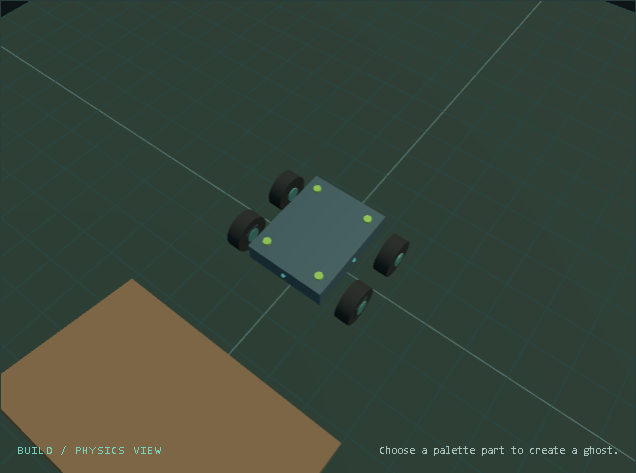
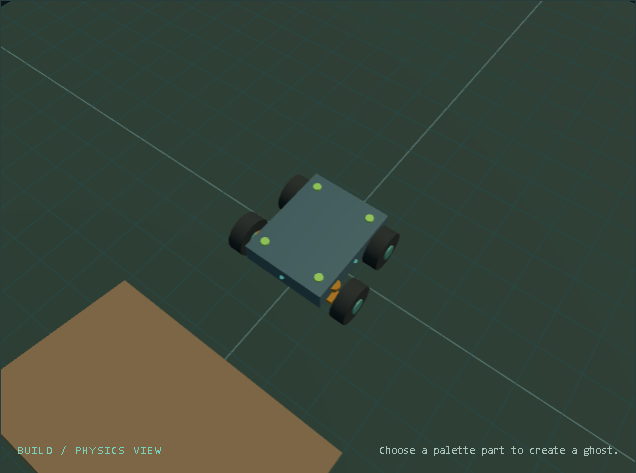
handoff docs + new steering model

diff --git a/src/parts/steering-hinge/visual.generated.ts b/src/parts/steering-hinge/visual.generated.ts
@@ -1,28 +1,41 @@
 // Generated-style procedural output from art-source/parts/steering-hinge/brief.md.
 // The pinned img2threejs checkout is recorded in manifest.json; the current source has no external image reference.
 import * as THREE from "three";
-import { material, mesh } from "../visual-utils";
+import { cylinderBetween, material, mesh } from "../visual-utils";
 
 export interface GeneratedVisualOptions { readonly variant?: "A" | "B"; }
 
 export function createSteeringHingeModel(options: GeneratedVisualOptions = {}): THREE.Group {
   const root = new THREE.Group();
   root.name = "steering-hinge-visual";
-  const dark = material(0x35464e, 0.55, 0.35);
-  const accent = material(options.variant === "B" ? 0x63c9c0 : 0xe3ae5a, 0.36, 0.55);
+  const dark = material(0x26373f, 0.58, 0.4);
+  const accent = material(options.variant === "B" ? 0x63c9c0 : 0xf0a53a, 0.32, 0.62);
+  const steel = material(0xb7c5c8, 0.28, 0.76);
   if (options.variant === "B") {
-    for (const x of [-0.16, 0.16]) {
-      const cheek = mesh(new THREE.BoxGeometry(0.12, 0.42, 0.42), dark, "fork-cheek");
-      cheek.position.x = x;
+    for (const z of [-0.1, 0.1]) {
+      const cheek = mesh(new THREE.BoxGeometry(0.4, 0.1, 0.08), dark, "fork-cheek");
+      cheek.position.set(0, 0, z);
       root.add(cheek);
     }
   } else {
-    root.add(mesh(new THREE.BoxGeometry(0.4, 0.42, 0.4), dark, "hinge-body"));
+    const arm = mesh(new THREE.BoxGeometry(0.4, 0.16, 0.16), dark, "knuckle-arm");
+    root.add(arm);
   }
-  const pin = mesh(new THREE.CylinderGeometry(0.1, 0.1, 0.5, 12), accent, "pivot-pin");
+  const pin = mesh(new THREE.CylinderGeometry(0.09, 0.09, 0.54, 16), accent, "steering-kingpin");
+  pin.position.x = -0.2;
   root.add(pin);
-  const cap = mesh(new THREE.BoxGeometry(0.26, 0.08, 0.26), accent, "top-cap");
-  cap.position.y = 0.24;
-  root.add(cap);
+  for (const y of [-0.29, 0.29]) {
+    const cap = mesh(new THREE.CylinderGeometry(0.13, 0.13, 0.06, 12), accent, "kingpin-cap");
+    cap.position.set(-0.2, y, 0);
+    root.add(cap);
+  }
+  const axle = mesh(new THREE.CylinderGeometry(0.075, 0.075, 0.28, 12), steel, "axle-stub");
+  axle.rotation.z = Math.PI / 2;
+  axle.position.x = 0.27;
+  root.add(axle);
+  const steeringTab = mesh(new THREE.BoxGeometry(0.13, 0.1, 0.3), accent, "steering-tab");
+  steeringTab.position.set(-0.12, 0.06, 0.15);
+  root.add(steeringTab);
+  root.add(cylinderBetween(new THREE.Vector3(-0.12, 0.06, 0.25), new THREE.Vector3(0.12, 0.06, 0.08), 0.035, accent, "knuckle-brace"));
   return root;
 }

diff --git a/src/simulation/hardening-regression.test.ts b/src/simulation/hardening-regression.test.ts
@@ -45,6 +45,25 @@ describe("runtime hardening", () => {
     expect(allocations).toBe(0);
   });
 
+  it("keeps the compact knuckle layout clear of the chassis through full steering travel", () => {
+    const catalog = new StaticPartCatalog();
+    const telemetry: RuntimeTelemetryEvent[] = [];
+    const result = new SimulationCompiler({ catalog, events: new NamespacedEventBus(), createPhysicsWorld: () => new RapierPhysicsWorld({ telemetry: (event) => telemetry.push(event) }) }).compile(createRuntimeSampleFixture(catalog, "four-wheel-scout"));
+    expect(result.ok).toBe(true);
+    if (!result.ok) return;
+    const body = (id: string) => result.value.specification.bodies.find((candidate) => candidate.id === id)?.transform.position;
+    expect(Math.abs((body("wheel-rear-right")?.[0] ?? 0) - 1)).toBeCloseTo(0.2, 8);
+    expect(Math.abs((body("wheel-front-right")?.[0] ?? 0) - 1)).toBeCloseTo(0.4, 8);
+    expect(tupleDistance(body("hinge-front-right") ?? [0, 0, 0], body("wheel-front-right") ?? [0, 0, 0])).toBeCloseTo(0.2, 8);
+    for (const steering of [-1, 1]) {
+      result.value.world.setControls({ throttle: 0, steering });
+      for (let step = 0; step < 240; step += 1) result.value.world.step(1 / 60);
+    }
+    const unintended = telemetry.filter((event) => event.type === "physics.collision.started" && /chassis/.test(JSON.stringify(event.payload)) && /wheel-front/.test(JSON.stringify(event.payload)));
+    expect(unintended).toEqual([]);
+    result.value.world.dispose();
+  });
+
   it("keeps every sample finite with bounded joint-anchor drift under long mixed controls", () => {
     const catalog = new StaticPartCatalog();
     for (const sample of RUNTIME_SAMPLES) {

diff --git a/docs/collider-and-model-handoff.md b/docs/collider-and-model-handoff.md
@@ -1,0 +1,180 @@
+# Collider and model handoff guide
+
+Tài liệu này dành cho dev thay model, chỉnh kích thước part hoặc tiếp tục phát triển hệ thống assembly. Mục tiêu là giữ visual, socket, collider và physics joint cùng một hệ tọa độ, tránh tình trạng model nhìn đúng nhưng collider lệch, bánh xuyên thân hoặc joint bị kéo căng.
+
+## 1. Nguồn dữ liệu authoritative
+
+Mỗi part có bốn lớp riêng:
+
+| Lớp | File | Trách nhiệm |
+|---|---|---|
+| Visual brief | `art-source/parts/<part>/brief.md` | Hình dáng, tỷ lệ và provenance |
+| Visual factory | `src/parts/<part>/visual.generated.ts` | Tạo Three.js mesh trong local part frame |
+| Visual adapter | `src/parts/<part>/visual.adapter.ts` | Normalize model và quản lý dispose |
+| Gameplay contract | `src/parts/<part>/manifest.json` | Socket, collider, mass, actuator, axis và limit |
+
+Mesh không phải nguồn xác định physics. Runtime không tự sinh collider từ mesh. Collider đơn giản trong manifest là contract gameplay ổn định và phải được review riêng khi thay đổi.
+
+Một thay đổi chỉ về hình ảnh không được sửa:
+
+- part ID hoặc socket ID;
+- local part-frame origin;
+- socket position/rotation;
+- collider position/rotation/kích thước;
+- actuator axis, steering limit hoặc motor parameters;
+- blueprint transform hay joint logic.
+
+Nếu model mới không khớp contract hiện tại, normalize visual trong adapter hoặc sửa file nguồn của model. Không di chuyển socket để bù cho origin export sai.
+
+## 2. Quy ước tọa độ
+
+- Một unit bằng một mét.
+- Trục Y hướng lên.
+- Hướng tiến của xe là +Z.
+- Wheel quay quanh local +X.
+- Steering quay quanh local +Y.
+- Transform physics được áp lên part root đúng một lần.
+- Scale và axis correction của asset chỉ được áp vào visual child.
+
+Trước khi export model, đặt guide hoặc locator tại mọi socket. Sau import, tâm guide phải trùng socket marker trong part preview ở cả ba góc nhìn front, side và top.
+
+## 3. Contract của steering knuckle
+
+`core.steering-hinge` dùng origin ở giữa kingpin và wheel hub:
+
+| Thành phần | Local value |
+|---|---:|
+| Chassis mount / kingpin | `[-0.20, 0, 0]` |
+| Wheel axle / hub | `[0.20, 0, 0]` |
+| Steering axis | `[0, 1, 0]` |
+| Wheel-spin axis | `[1, 0, 0]` |
+| Steering limit | `[-0.40, 0.40] rad` |
+| Kingpin-to-hub length | `0.40 m` |
+
+Visual phải có một cấu trúc nhìn thấy được nối từ `mount` tới `axle`. Kingpin nằm đúng tại socket `mount`; axle stub xuyên qua socket `axle`. Không đặt toàn bộ visual quanh origin như một khối vuông vì bánh sẽ che cơ cấu lái.
+
+Collider hiện gồm:
+
+- một cuboid mỏng bao tay đòn;
+- một cylinder đứng bao kingpin;
+- không có collider riêng cho steering tab và chi tiết trang trí mảnh.
+
+Các collider của hinge và part nối trực tiếp được phép chồng nhẹ tại joint. Wheel và chassis không nối trực tiếp nên không được xuyên nhau; tuyệt đối không tắt contact wheel/chassis để che lỗi hình học.
+
+## 4. Steering sweep và clearance
+
+Kiểm tra pose trung tính là chưa đủ. Khi bánh steer, radius của lốp tạo một swept volume rộng hơn bề dày bánh.
+
+Với:
+
+- `h`: nửa bề dày bánh;
+- `r`: bán kính bánh;
+- `θ`: góc lái lớn nhất;
+- `c`: vị trí mép chassis;
+- `L`: khoảng cách kingpin tới tâm hub;
+
+mép trong bảo thủ của bánh có thể ước lượng bằng:
+
+```text
+innerEdge ≈ c + L·cos(θ) - h·cos(θ) - r·sin(θ)
+```
+
+`innerEdge` phải nằm ngoài mép chassis cộng thêm safety clearance. Sau phép tính vẫn phải chạy collision regression thật; công thức chỉ dùng để loại sớm thiết kế không khả thi.
+
+Khi thay bánh rộng hơn, tăng radius hoặc tăng steering limit, cần review lại đồng thời:
+
+1. vị trí chassis mount;
+2. chiều dài knuckle;
+3. collider chassis;
+4. wheel collider;
+5. steering limit;
+6. khoảng cách ở cả hai chiều lái.
+
+Không kéo bánh ra xa tùy ý. Nếu cần khoảng cách lớn để tránh thân, visual phải thể hiện phần cơ khí lấp khoảng cách đó như knuckle, hub carrier hoặc axle stub.
+
+## 5. Nguyên tắc tạo collider
+
+- Ưu tiên cuboid, cylinder và compound collider nhỏ, dễ đọc.
+- Collider nên bám silhouette cơ khí chính, không bám bolt, bevel hoặc chi tiết trang trí.
+- Tránh một collider lớn bao cả khoảng rỗng của fork hoặc wheel arch.
+- Không dùng collider cực mỏng nếu part có thể di chuyển nhanh qua vật khác.
+- Không để visual nhô quá xa khỏi collider nếu phần đó được kỳ vọng phải va chạm.
+- Không tạo nhiều collider chồng nhau nếu chúng chỉ mô tả cùng một khối lượng.
+- Mọi kích thước, rotation và position phải hữu hạn, theo mét và ở local part frame.
+- Sau khi sửa collider phải kiểm tra lại mass distribution, contact stability và joint drift.
+
+Overlap preflight dùng world-space bounding boxes và có tính bảo thủ với collider xoay. Nếu một model hợp lệ bị reject, trước tiên kiểm tra origin, socket và collider envelope. Không tăng tolerance hoặc miễn cả loại part chỉ để test qua.
+
+## 6. Quy trình thay model an toàn
+
+1. Ghi lại part ID, visual revision và gameplay revision hiện tại.
+2. Mở `manifest.json`, đánh dấu origin, sockets, colliders và actuator axes trong DCC/tool tạo model.
+3. Thay mesh nhưng giữ nguyên local part frame.
+4. Normalize scale/up-axis trong visual adapter nếu cần.
+5. Kiểm tra variant mới trong isolated part preview với socket/collider overlays.
+6. Kiểm tra model trong Build mode trước khi chạy physics.
+7. Quan sát neutral pose, full-left và full-right steering.
+8. Chạy drive/reverse/steer, Reset và đổi variant A/B.
+9. Chạy toàn bộ command QA bên dưới.
+10. Chỉ tăng `visual.revision` nếu gameplay contract không đổi.
+
+Nếu sockets hoặc collider phải đổi, đây là gameplay migration. Dev phải tăng part revision, cập nhật fixtures, chạy overlap/stress regression và ghi lý do thay đổi trong PR/handoff.
+
+## 7. Kiểm thử bắt buộc
+
+```text
+npm run part:qa -- core.structural-block
+npm run part:qa -- core.powered-wheel
+npm run part:qa -- core.steering-hinge
+npm run check
+npm run test:e2e
+```
+
+Các tín hiệu pass quan trọng:
+
+- manifest parser chấp nhận socket/collider mới;
+- assembly anchor không lệch;
+- compile không báo `simulation.compile.collider-overlap` hoặc `environment-overlap` cho fixture hợp lệ;
+- cấu hình overlap sai bị reject trước khi Rapier world được tạo;
+- không có `physics.collision.started` giữa chassis và bánh trước khi steer hết limit;
+- pose luôn hữu hạn;
+- joint-anchor drift dưới ngưỡng regression;
+- blueprint và physics specification không đổi khi chỉ đổi visual A/B;
+- sau Reset, physics worlds và input listeners trở về zero;
+- renderer resource counts trở về baseline sau lifecycle test.
+
+Không sửa hoặc xóa assertion để làm model mới pass. Nếu test fail, xác định đó là lỗi visual alignment, contract geometry, collision envelope hay physics tuning trước khi chọn cách sửa.
+
+## 8. Browser QA cho dev nhận handoff
+
+Trên `http://localhost:5173/`:
+
+1. Load Scout buggy và quan sát từ front/top/side.
+2. Xác nhận bánh sau gần thân nhưng không nằm trong mesh thân.
+3. Xác nhận kingpin, knuckle arm và axle stub phía trước đều nhìn thấy.
+4. Start, giữ W+D rồi W+A; quan sát bánh quay và steer đúng trục.
+5. Kiểm tra lốp không xuyên thân ở hai steering limit.
+6. Kéo camera ra ngoài viewport rồi thả; camera không được kẹt drag.
+7. Reset, đổi steering variant A/B và lặp lại.
+8. Kiểm tra Event viewer không xuất hiện runtime failure hoặc collision chassis/front-wheel.
+
+Ảnh chụp đẹp không thay thế collision regression. Browser QA dùng để bắt sai visual hierarchy, pivot, scale và clipping mà test số học không thể hiện rõ.
+
+## 9. Nội dung handoff bắt buộc trong PR
+
+Dev bàn giao cần ghi:
+
+- part và variant đã đổi;
+- visual revision trước/sau;
+- gameplay revision có đổi hay không;
+- origin và scale của asset nguồn;
+- sockets/colliders/axes có thay đổi hay không;
+- khoảng clearance nhỏ nhất ở neutral và steering limit;
+- command QA đã chạy và kết quả;
+- ảnh front/top/side của Build mode;
+- ảnh hoặc video ngắn khi steer hai phía;
+- limitation còn lại và asset provenance/license;
+- cách rollback về visual revision trước.
+
+Nếu không đo được clearance hoặc chưa chạy steering-limit collision test, handoff phải ghi rõ là chưa nghiệm thu collider. Không mô tả thay đổi là “visual-only” khi đã sửa socket, collider, mass, joint hoặc actuator.
+

diff --git a/docs/part-model-replacement.md b/docs/part-model-replacement.md
@@ -38,3 +38,32 @@ npm run part:qa -- core.steering-hinge
 Then run `npm run test:e2e`. The browser test assembles the machine from the palette, starts it, drives and steers it, resets it, captures the same-camera A/B screenshots, compares blueprint and compiled physics JSON, and performs 20 more Start/Reset cycles. The evidence images are [plan04-visual-a.png](./evidence/plan04-visual-a.png) and [plan04-visual-b.png](./evidence/plan04-visual-b.png).
 
 To roll back a visual revision, restore the previous brief/generated factory/adapter revision and the manifest visual revision, then rerun part QA and e2e. If sockets, colliders, axes or bindings must change, treat that as a gameplay contract migration and review it separately; it is not a model replacement.
+
+## Collider-safe model replacement checklist
+
+Never derive gameplay colliders from a replacement mesh at runtime. The collider primitives in `manifest.json` are deliberately simple, stable and reviewable; the mesh may contain bevels, holes, bolts and decorative braces that must not become collision surfaces.
+
+Before exporting a model, place its authoring origin at the part frame and add visible guides for every authoritative socket. For the compact steering knuckle, local coordinates are:
+
+| Contract item | Local value | Meaning |
+|---|---:|---|
+| `mount` socket | `[-0.20, 0, 0]` | vertical kingpin and steering joint at the chassis |
+| `axle` socket | `[0.20, 0, 0]` | wheel-spin joint at the hub |
+| steering axis | `[0, 1, 0]` | kingpin rotates around local Y |
+| wheel axis | `[1, 0, 0]` | wheel spins around local X |
+| steering limit | `±0.40 rad` | keeps the tyre sweep outside the chassis |
+
+The knuckle mesh should visually bridge `mount` to `axle`. Keep the kingpin centered on `mount`, the hub centered on `axle`, and the main arm inside the authored collider envelope. Decorative steering tabs may extend outside that envelope if they are thin and do not need gameplay contact.
+
+For a visual-only replacement:
+
+1. Keep the part ID, part-frame origin, socket coordinates, actuator axes and collider JSON unchanged.
+2. Normalize scale and orientation in `visual.adapter.ts`; never move sockets to repair a badly exported mesh.
+3. Check the neutral pose from the front, side and top. The tyre must not visually enter the chassis, and the axle stub must reach the wheel hub.
+4. Check both steering limits. The tyre's swept volume must remain outside the chassis. Do not solve clipping by disabling wheel/chassis contacts.
+5. Keep the visual inside or close to its collider. Large invisible collider margins make assembly look detached; mesh outside the collider can visibly pass through obstacles.
+6. Increment only `visual.revision` for a mesh-only change. Increment the part gameplay revision and rerun migration review if sockets, colliders or limits change.
+
+Run `npm run part:qa -- core.steering-hinge`, `npm run check`, and `npm run test:e2e`. The hardening regression rejects initial unintended overlap, verifies the compact wheel offsets, drives the steering through both limits, rejects wheel/chassis collision events and measures joint-anchor drift on the 4/6/8-wheel samples. In the browser, inspect variant A and B, drag the camera around the front axle, drive while steering, then Reset and confirm resource counters return to baseline.
+
+If a future wheel becomes wider or gains a different radius, calculate its steering sweep before changing sockets. For a wheel with half-width `h`, radius `r`, steering angle `θ`, chassis edge `c` and kingpin-to-hub length `L`, the conservative inner edge is approximately `c + L·cos(θ) - h·cos(θ) - r·sin(θ)`. Keep this value above the chassis edge plus the desired safety clearance, then confirm it with the runtime collision test. A prettier mesh is not evidence that the collider still clears.

diff --git a/art-source/parts/steering-hinge/brief.md b/art-source/parts/steering-hinge/brief.md
@@ -1,5 +1,7 @@
 # Steering hinge visual brief
 
-Low-poly steering joint in the part frame. Variant A is a compact dark block with a yellow top cap. Variant B is a fork-shaped housing with two side cheeks and a cyan pivot pin. The steering axis is local +Y and the origin is the mount/axle center.
+Low-poly steering knuckle inspired by Fischertechnik and LEGO Technic front hubs. A visible 0.40 m arm bridges the chassis kingpin at local `[-0.20, 0, 0]` to the wheel axle at `[0.20, 0, 0]`. The kingpin is tall, bright and vertical; the outer axle stub is metallic and points along local +X. Variant A uses one solid arm, while variant B uses two fork cheeks. Both include a contrasting steering tab and diagonal brace so the mechanism remains readable when the wheel is mounted.
+
+The steering axis is local +Y and passes through the `mount` socket. The wheel-spin axis is local +X through the `axle` socket. The origin is halfway between both sockets. Decorative geometry must not imply suspension that physics does not implement.
 
 Provenance: internal procedural design brief, no external reference image or third-party art.
